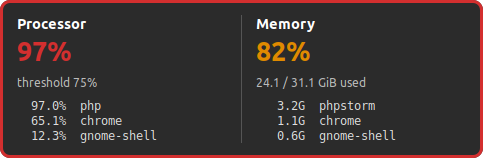
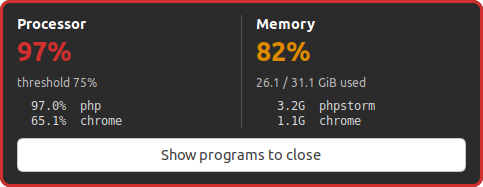
Add button to list and close the heaviest programs

diff --git a/README.md b/README.md
@@ -8,6 +8,10 @@ A small Linux desktop monitor that pops up an alert when CPU or memory usage sta
 - Each value is green below the threshold, orange above it, and **red at 95%+**. The border takes the worst color.
 - An alert fires after usage stays above the threshold for 3 samples in a row, then waits 5 minutes before alerting again.
 - The popup sits in the top-right corner, closes on click, and disappears after 15 seconds.
+- **Show programs to close** opens a list of your heaviest processes (live CPU + memory). Tick some and press
+  **Close selected** (asks them to quit) or **Force kill** (stops them immediately). Only your own processes are
+  listed; root processes, core desktop processes and FortiClient are never shown. Open it any time with
+  `cpu-alert-popup --candidates`.
 
 ## Requirements
 
